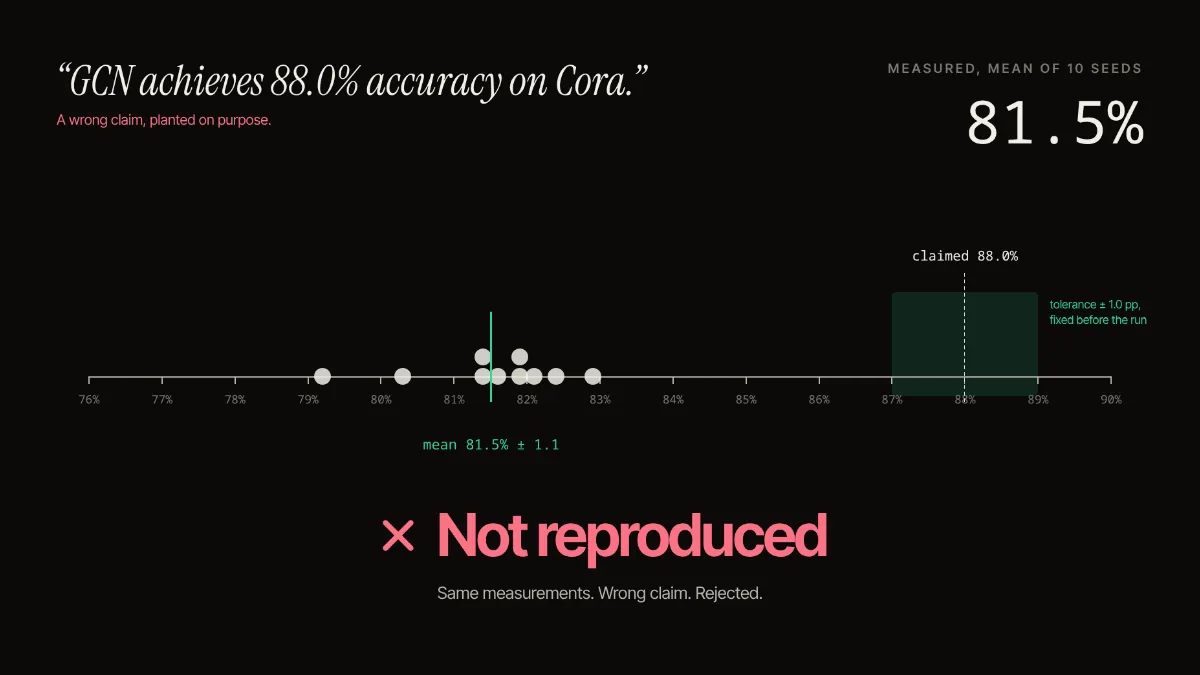
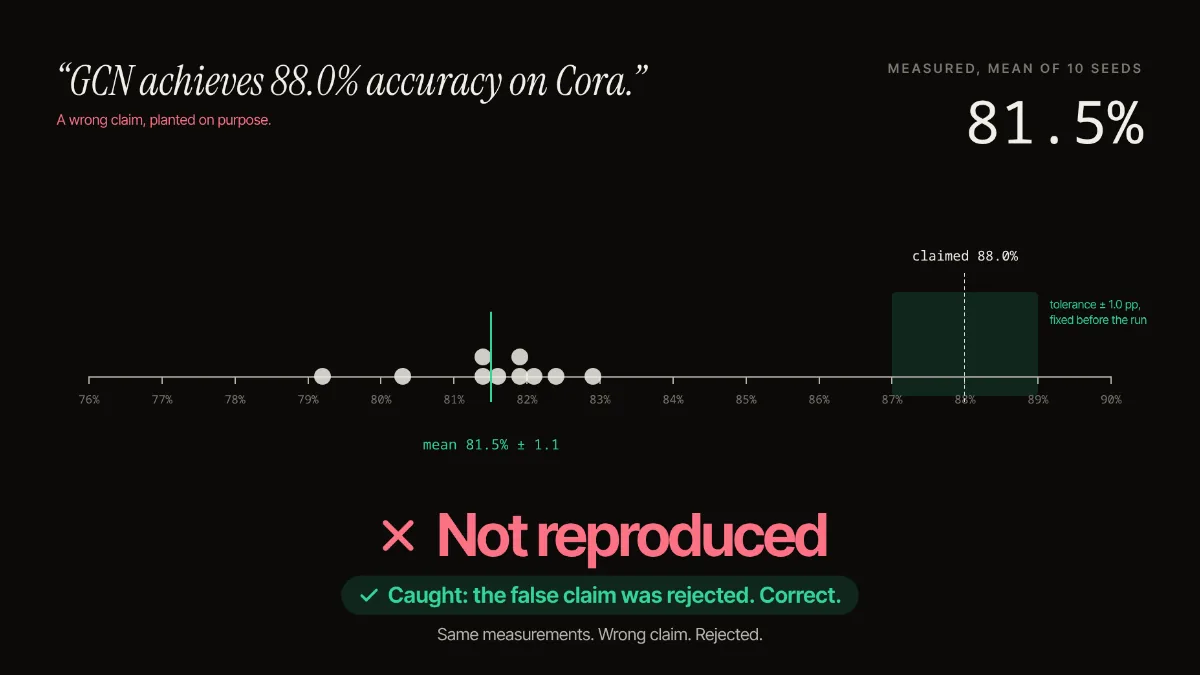
fix: placebo section reads as a test the product passes; plain discover note; human run label
Heading 'Can it be fooled?' with a two-row legend (numbers from the scene data), a 'Caught' badge in the scene end state, play at 70% visibility, new poster stills. Discover shows the extract limit as a muted note. Run header shows 'arXiv 2307.03756' instead of the raw id.

Changed region(s): [[0.2775, 0.84, 0.74, 0.9644]]

diff --git a/web/src/components/LandingSections.tsx b/web/src/components/LandingSections.tsx
@@ -1,5 +1,5 @@
 import { useEffect, useRef, useState, type ReactNode } from 'react'
-import { Bug, Crop, FileText, GitCompare, Layers, Quote, Ruler, Scale, ScrollText, Search, SearchCheck, Shuffle, Users, Wrench, BookOpenText, type LucideIcon } from 'lucide-react'
+import { Check, Bug, Crop, FileText, GitCompare, Layers, Quote, Ruler, Scale, ScrollText, Search, SearchCheck, Shuffle, Users, Wrench, BookOpenText, type LucideIcon } from 'lucide-react'
 import { FIGURES, HELD_OUT, LIMITS, README_TAVILY, REPO_BLOB, SCOPE_LIMIT, SOURCES, UNITS } from '../data/benchmark'
 import { heroCard, rampValue } from '../heroCard'
 import { prefersReducedMotion } from './hero/config'
@@ -12,6 +12,7 @@ import { useInView } from '../useInView'
 import { FEATURED_RUN_ID } from '../featured'
 import { loadIndex, loadRun, type RunData } from '../data'
 import { RESULT, TARGET_HINT, de2en } from '../labels'
+import { loadStageData, type StageData } from '../scroll/data'
 import { useLiveStatus } from '../live'
 import { statusFor } from '../livestatus'
 import { Badge, Disclosure, ExtLink, GoArrow, GoLink } from './ui'
@@ -170,7 +171,7 @@ export function ProofNumbers() {
   const { placebo, withCode } = FIGURES
   const num = 'font-mono text-4xl font-light tracking-tight text-fg tabular-nums sm:text-5xl'
   const items = [
-    { n: `${placebo.v4[0]} of ${placebo.v4[1]}`, t: 'false claims accepted', s: 'planted on purpose' },
+    { n: `${placebo.v4[0]} of ${placebo.v4[1]}`, t: 'false claims accepted', s: 'planted on purpose, as in the test above' },
     { n: `${withCode.matched} of ${withCode.of}`, t: 'known results matched', s: 'paper + authors’ code, in-sample' },
     { n: `${HELD_OUT.matched} of ${HELD_OUT.of}`, t: 'on a held-out paper', s: 'not used to design the fixes' },
   ]
@@ -187,12 +188,43 @@ export function ProofNumbers() {
   )
 }
 
+// Two rows that say what the test below is: both outcomes are the right ones. Numbers come from the same run the scene plays.
+function TestLegend() {
+  const [d, setD] = useState<StageData | null>(null)
+  useEffect(() => { let on = true; loadStageData().then((x) => on && setD(x)).catch(() => {}); return () => { on = false } }, [])
+  if (!d?.placebo || !d.placeboVerdict) return null
+  const pct = (x: number) => `${(x * 100).toFixed(1)}%`
+  const rows = [
+    { what: 'Real claim', n: pct(d.claim.target), out: d.verdict.urteil === 'reproduziert' ? 'Reproduced' : 'Checked', note: null },
+    { what: 'Planted claim', n: pct(d.placebo.target), out: 'Rejected', note: 'correct' },
+  ]
+  return (
+    <ul className="m-0 mt-5 grid max-w-md list-none gap-2 p-0" aria-label="What this test checks">
+      {rows.map((r) => (
+        <li key={r.what} className="flex items-center gap-3 rounded-lg border border-line bg-surface px-4 py-2.5 text-[15px] text-fg">
+          <span className="w-28 shrink-0 text-fg-4">{r.what}</span>
+          <span className="font-mono tabular-nums">{r.n}</span>
+          <span aria-hidden className="text-subtle">&rarr;</span>
+          <span className="font-medium">{r.out}</span>
+          <Check className="h-4 w-4 shrink-0 text-tone-green" strokeWidth={3} aria-hidden />
+          {r.note && <span className="text-[13px] font-medium text-tone-green">{r.note}</span>}
+        </li>
+      ))}
+    </ul>
+  )
+}
+
 export function DoesItWork() {
   return (
-    <section id="proof" aria-label="Does it work?" className="scroll-mt-8 pt-14 sm:pt-20">
-      <div className="mx-auto max-w-4xl px-6"><h2 className={lead}>Does it work?</h2></div>
+    <section id="proof" aria-label="Can it be fooled?" className="scroll-mt-8 pt-14 sm:pt-20">
+      <div className="mx-auto max-w-4xl px-6">
+        <h2 className={lead}>Can it be fooled?</h2>
+        <p className={`${body} mt-3`}>In the same run we plant a false claim. Nullius has to reject it.</p>
+        <TestLegend />
+      </div>
       <div className="mt-6"><ScrollScene id="placebo" /></div>
       <div className="mx-auto max-w-4xl px-6 pt-6">
+        <p className="mb-5 mt-0 text-[14px] text-fg-4">Three small tests. The first is the one above.</p>
         <ProofNumbers />
         <p className="mb-0 mt-8 text-[14px] text-fg-4">Small tests, not a success rate. <GoLink href="#benchmark" className="ml-1">Benchmark</GoLink></p>
       </div>

diff --git a/web/src/scroll/shots.tsx b/web/src/scroll/shots.tsx
@@ -115,7 +115,7 @@ type MeasureProps = {
   dots: number            // how many seeds have landed (fractional: the last one is falling)
   axis: number; claimOn: number; bandOn: number; meanOn: number
   quote: string; byline: ReactNode; quoteOpacity: number
-  verdict?: { label: string; tone: 'green' | 'amber' | 'red'; on: number; sub: string; subOn: number }
+  verdict?: { label: string; tone: 'green' | 'amber' | 'red'; on: number; sub: string; subOn: number; caught?: boolean }
   oldVerdict?: { label: string; tone: 'green' | 'amber' | 'red'; on: number }
   axisCenter?: number      // the axis grows outward from this value instead of from the left
   claimLabelOn?: number    // the label can arrive later than the line (04-number flies it in)
@@ -193,7 +193,14 @@ function Measure({ d, pal, lo, hi, target, tol, dots, axis, claimOn, bandOn, mea
           <div style={{ position: 'absolute', left: 0, right: 0, top: 790, display: 'flex', justifyContent: 'center', alignItems: 'center', gap: 20, fontSize: 92, fontWeight: 650, letterSpacing: '-0.04em', color: tone(verdict.tone), opacity: verdict.on, transform: `translateY(${(1 - verdict.on) * 24}px)` }}>
             {verdict.tone === 'green' ? <Check size={78} strokeWidth={2.6} /> : <Cross size={78} strokeWidth={2.6} />} {verdict.label}
           </div>
-          <div style={{ position: 'absolute', left: 0, right: 0, top: 920, textAlign: 'center', fontSize: 26, color: pal.ink2, opacity: verdict.subOn }}>{verdict.sub}</div>
+          {verdict.caught && (
+            <div style={{ position: 'absolute', left: 0, right: 0, top: 790, display: 'flex', justifyContent: 'center', opacity: verdict.subOn }}>
+              <div style={{ marginTop: 118, display: 'flex', alignItems: 'center', gap: 12, padding: '10px 26px', borderRadius: 99, background: pal.greenSoft, color: pal.green, fontSize: 34, fontWeight: 650 }}>
+                <Check size={34} strokeWidth={3} /> Caught: the false claim was rejected. Correct.
+              </div>
+            </div>
+          )}
+          <div style={{ position: 'absolute', left: 0, right: 0, top: verdict.caught ? 984 : 920, textAlign: 'center', fontSize: 26, color: pal.ink2, opacity: verdict.subOn }}>{verdict.sub}</div>
         </>
       )}
     </>
@@ -244,7 +251,7 @@ const placebo: Shot = {
           byline={swap < 0.5 ? <>{d.byline} &middot; {d.claim.target_evidence?.table ?? d.claim.source}</> : <span style={{ color: pal.red }}>A wrong claim, planted on purpose.</span>}
           quoteOpacity={swap < 0.5 ? 1 - swap * 2 : 1}
           oldVerdict={{ ...oldV, on: 1 - easeInOut(ramp(t, P.verdictOut, 600)) }}
-          verdict={{ label: newV.label, tone: newV.tone, on: easeOut(ramp(t, P.reject, 600)), sub: same ? 'Same measurements. Wrong claim. Rejected.' : 'Wrong claim. Rejected.', subOn: fade(t, P.reject + 800, 600).opacity as number }} />
+          verdict={{ label: newV.label, tone: newV.tone, on: easeOut(ramp(t, P.reject, 600)), sub: same ? 'Same measurements. Wrong claim. Rejected.' : 'Wrong claim. Rejected.', subOn: fade(t, P.reject + 800, 600).opacity as number, caught: true }} />
         {/* the first frame equals the last frame of 04-number: its subtitle and source line fade out first */}
         <div style={{ position: 'absolute', left: 0, right: 0, top: 920, textAlign: 'center', fontSize: 26, color: pal.ink2, opacity: 1 - easeInOut(ramp(t, P.verdictOut, 600)) }}>with our setup &middot; target value reached &middot; method fidelity not checked</div>
         <div style={{ opacity: 1 - ramp(t, 300, 400) }}><Source t={1e9} pal={pal}>Real run, {day(d.retrievedAt)}: {d.seeds.length} seeds in Nebius Sandboxes, scored by our harness. Dots in the order the seeds finished.</Source></div>

diff --git a/web/src/components/Discovery.tsx b/web/src/components/Discovery.tsx
@@ -26,6 +26,9 @@ const btn = 'inline-flex items-center gap-2 px-4 py-2 text-sm font-medium rounde
 
 const PURPOSE_TITLE: Record<string, string> = { find_papers: 'Find papers', read_paper: 'Read paper', find_code: 'Find code', community: 'Community' }
 
+// The search stops paying for reads after a few papers; say so as a plain note, not as a warning.
+export const plainNote = (m: string) => /^Max \d+ Tavily extracts reached\.?$/.test(m.trim()) ? `This search reads at most ${m.match(/\d+/)![0]} papers per run to save credits.` : m
+
 const fmtDate = (ts: number) => new Date(ts * 1000).toLocaleDateString('en-US', { month: 'short', day: 'numeric', year: 'numeric' })
 const fmtSec = (s: number) => `${Math.max(0, s).toFixed(1)}s`
 
@@ -591,7 +594,7 @@ export function Discovery() {
             <button onClick={() => startReplay()} className="text-fg-2 underline underline-offset-4 cursor-pointer hover:text-fg-max">Show recorded search instead</button>
           </div>
         )}
-        {[...new Set(view.notes.filter((note) => note.kind === 'warning').map((note) => note.message))].map((message, i) => <p key={i} className="mb-0 mt-3 text-[12px] text-tone-amber">{message}</p>)}
+        {[...new Set(view.notes.filter((note) => note.kind === 'warning').map((note) => plainNote(note.message)))].map((message, i) => <p key={i} className="mb-0 mt-3 text-[12px] text-muted">{message}</p>)}
       </div>
 
       {!events.length && mode === 'idle' ? (

diff --git a/web/src/components/RunView.tsx b/web/src/components/RunView.tsx
@@ -24,6 +24,7 @@ import { CertificateActions } from './CertificateActions'
 import { WhatIf } from './WhatIf'
 import { useHead } from '../useHead'
 import { headFromSummary } from '../paperhead'
+import { paperLabel } from '../paperLabel'
 import { getCatalogStatement, parseDate, resultSentence, showValue } from '../format'
 import { getText, loadRun, runDir, type Json, type RunData, type RunRef } from '../data'
 import { OVERALL, RESULT, catalogLabel, de2en, translateClaim } from '../labels'
@@ -166,8 +167,8 @@ export function RunView({ ref_, initialTab, playTimelapse = false }: { ref_: Run
           </div>
         </div>
         <header className="pb-6 pt-6 sm:pb-8 sm:pt-8">
-          <div className="flex items-center gap-1.5 text-[11px] font-semibold uppercase tracking-[0.2em] text-muted">
-            {run.ref.paper_id} · {parseDate(run.ref.timestamp)}<Hint text={INFO} />
+          <div className="flex items-center gap-1.5 text-[12px] font-semibold tracking-[0.04em] text-muted">
+            {paperLabel(run.ref.paper_id)} · {parseDate(run.ref.timestamp)}<Hint text={INFO} />
           </div>
           <h1 className="font-grotesk m-0 mt-3 max-w-4xl text-3xl font-semibold leading-[1.08] text-fg sm:text-4xl">{run.ref.title}</h1>
           <PaperByline head={head} />

diff --git a/web/src/scroll/ScrollScene.tsx b/web/src/scroll/ScrollScene.tsx
@@ -67,11 +67,11 @@ export function ScrollScene({ id }: { id: SceneId }) {
     return () => { io.disconnect(); clearTimeout(idle); removeEventListener('load', later) }
   }, [still])
 
-  // visibility: play only while at least half of the frame is on screen
+  // visibility: play only while about 70% of the frame is on screen
   useEffect(() => {
     const el = frame.current
     if (still || !el || typeof IntersectionObserver === 'undefined') return
-    const io = new IntersectionObserver(([e]) => setVisible(isVisibleEnough(e.intersectionRatio)), { threshold: [0, 0.25, 0.5, 0.75, 1] })
+    const io = new IntersectionObserver(([e]) => setVisible(isVisibleEnough(e.intersectionRatio)), { threshold: [0, 0.25, 0.5, 0.7, 0.85, 1] })
     io.observe(el)
     return () => io.disconnect()
   }, [still])

diff --git a/web/src/scroll/data.ts b/web/src/scroll/data.ts
@@ -38,7 +38,13 @@ export function unitParts(claim: string) {
   return { model, data: parts.includes('etth1') ? 'ETTh1' : random ? 'Cora, random splits' : 'Cora' }
 }
 
-export async function loadStageData(): Promise<StageData> {
+let stagePromise: Promise<StageData> | null = null
+export function loadStageData(): Promise<StageData> {
+  if (!stagePromise) stagePromise = loadStageDataOnce().catch((e) => { stagePromise = null; throw e })
+  return stagePromise
+}
+
+async function loadStageDataOnce(): Promise<StageData> {
   const index = await loadIndex()
   const sums = await loadSummaries()
   const ref = index.find((r) => r.id === FILM_RUN)

diff --git a/web/src/scroll/progress.test.ts b/web/src/scroll/progress.test.ts
@@ -31,10 +31,10 @@ test('pause and resume continue from where they stopped', () => {
   assert.equal(t, 32)
 })
 
-test('visibility threshold is about half the frame', () => {
-  assert.equal(VISIBLE_AT, 0.5)
-  assert.equal(isVisibleEnough(0.49), false)
-  assert.equal(isVisibleEnough(0.5), true)
+test('visibility threshold is 70% of the frame', () => {
+  assert.equal(VISIBLE_AT, 0.7)
+  assert.equal(isVisibleEnough(0.69), false)
+  assert.equal(isVisibleEnough(0.7), true)
   assert.equal(isVisibleEnough(1), true)
 })
 

diff --git a/web/src/paperLabel.test.ts b/web/src/paperLabel.test.ts
@@ -1,0 +1,13 @@
+import test from 'node:test'
+import assert from 'node:assert/strict'
+import { paperLabel } from './paperLabel.ts'
+
+test('discovery ids become an arXiv label', () => {
+  assert.equal(paperLabel('disc_2307_03756'), 'arXiv 2307.03756')
+  assert.equal(paperLabel('disc_2410_09348_d8991277dd33d43f'), 'arXiv 2410.09348')
+})
+
+test('other ids stay readable', () => {
+  assert.equal(paperLabel('kipf_gcn_2017'), 'kipf gcn 2017')
+  assert.equal(paperLabel('disc_odd'), 'disc odd')
+})

diff --git a/web/src/paperLabel.ts b/web/src/paperLabel.ts
@@ -1,0 +1,5 @@
+// Human label for a run header: "disc_2307_03756" and "disc_2410_09348_d8991277dd33d43f" -> "arXiv 2307.03756"; other ids stay readable ("kipf_gcn_2017" -> "kipf gcn 2017").
+export function paperLabel(id: string): string {
+  const m = id.match(/^disc_(\d{4})_(\d{4,5})(?:_[0-9a-f]+)?$/)
+  return m ? `arXiv ${m[1]}.${m[2]}` : id.replace(/_/g, ' ')
+}

diff --git a/web/src/scroll/progress.ts b/web/src/scroll/progress.ts
@@ -1,7 +1,7 @@
 // Pure play-clock maths for the landing scenes (tested in progress.test.ts).
 
 // Share of the frame that must be on screen before a shot plays.
-export const VISIBLE_AT = 0.5
+export const VISIBLE_AT = 0.7
 
 export const isVisibleEnough = (ratio: number): boolean => ratio >= VISIBLE_AT
 
